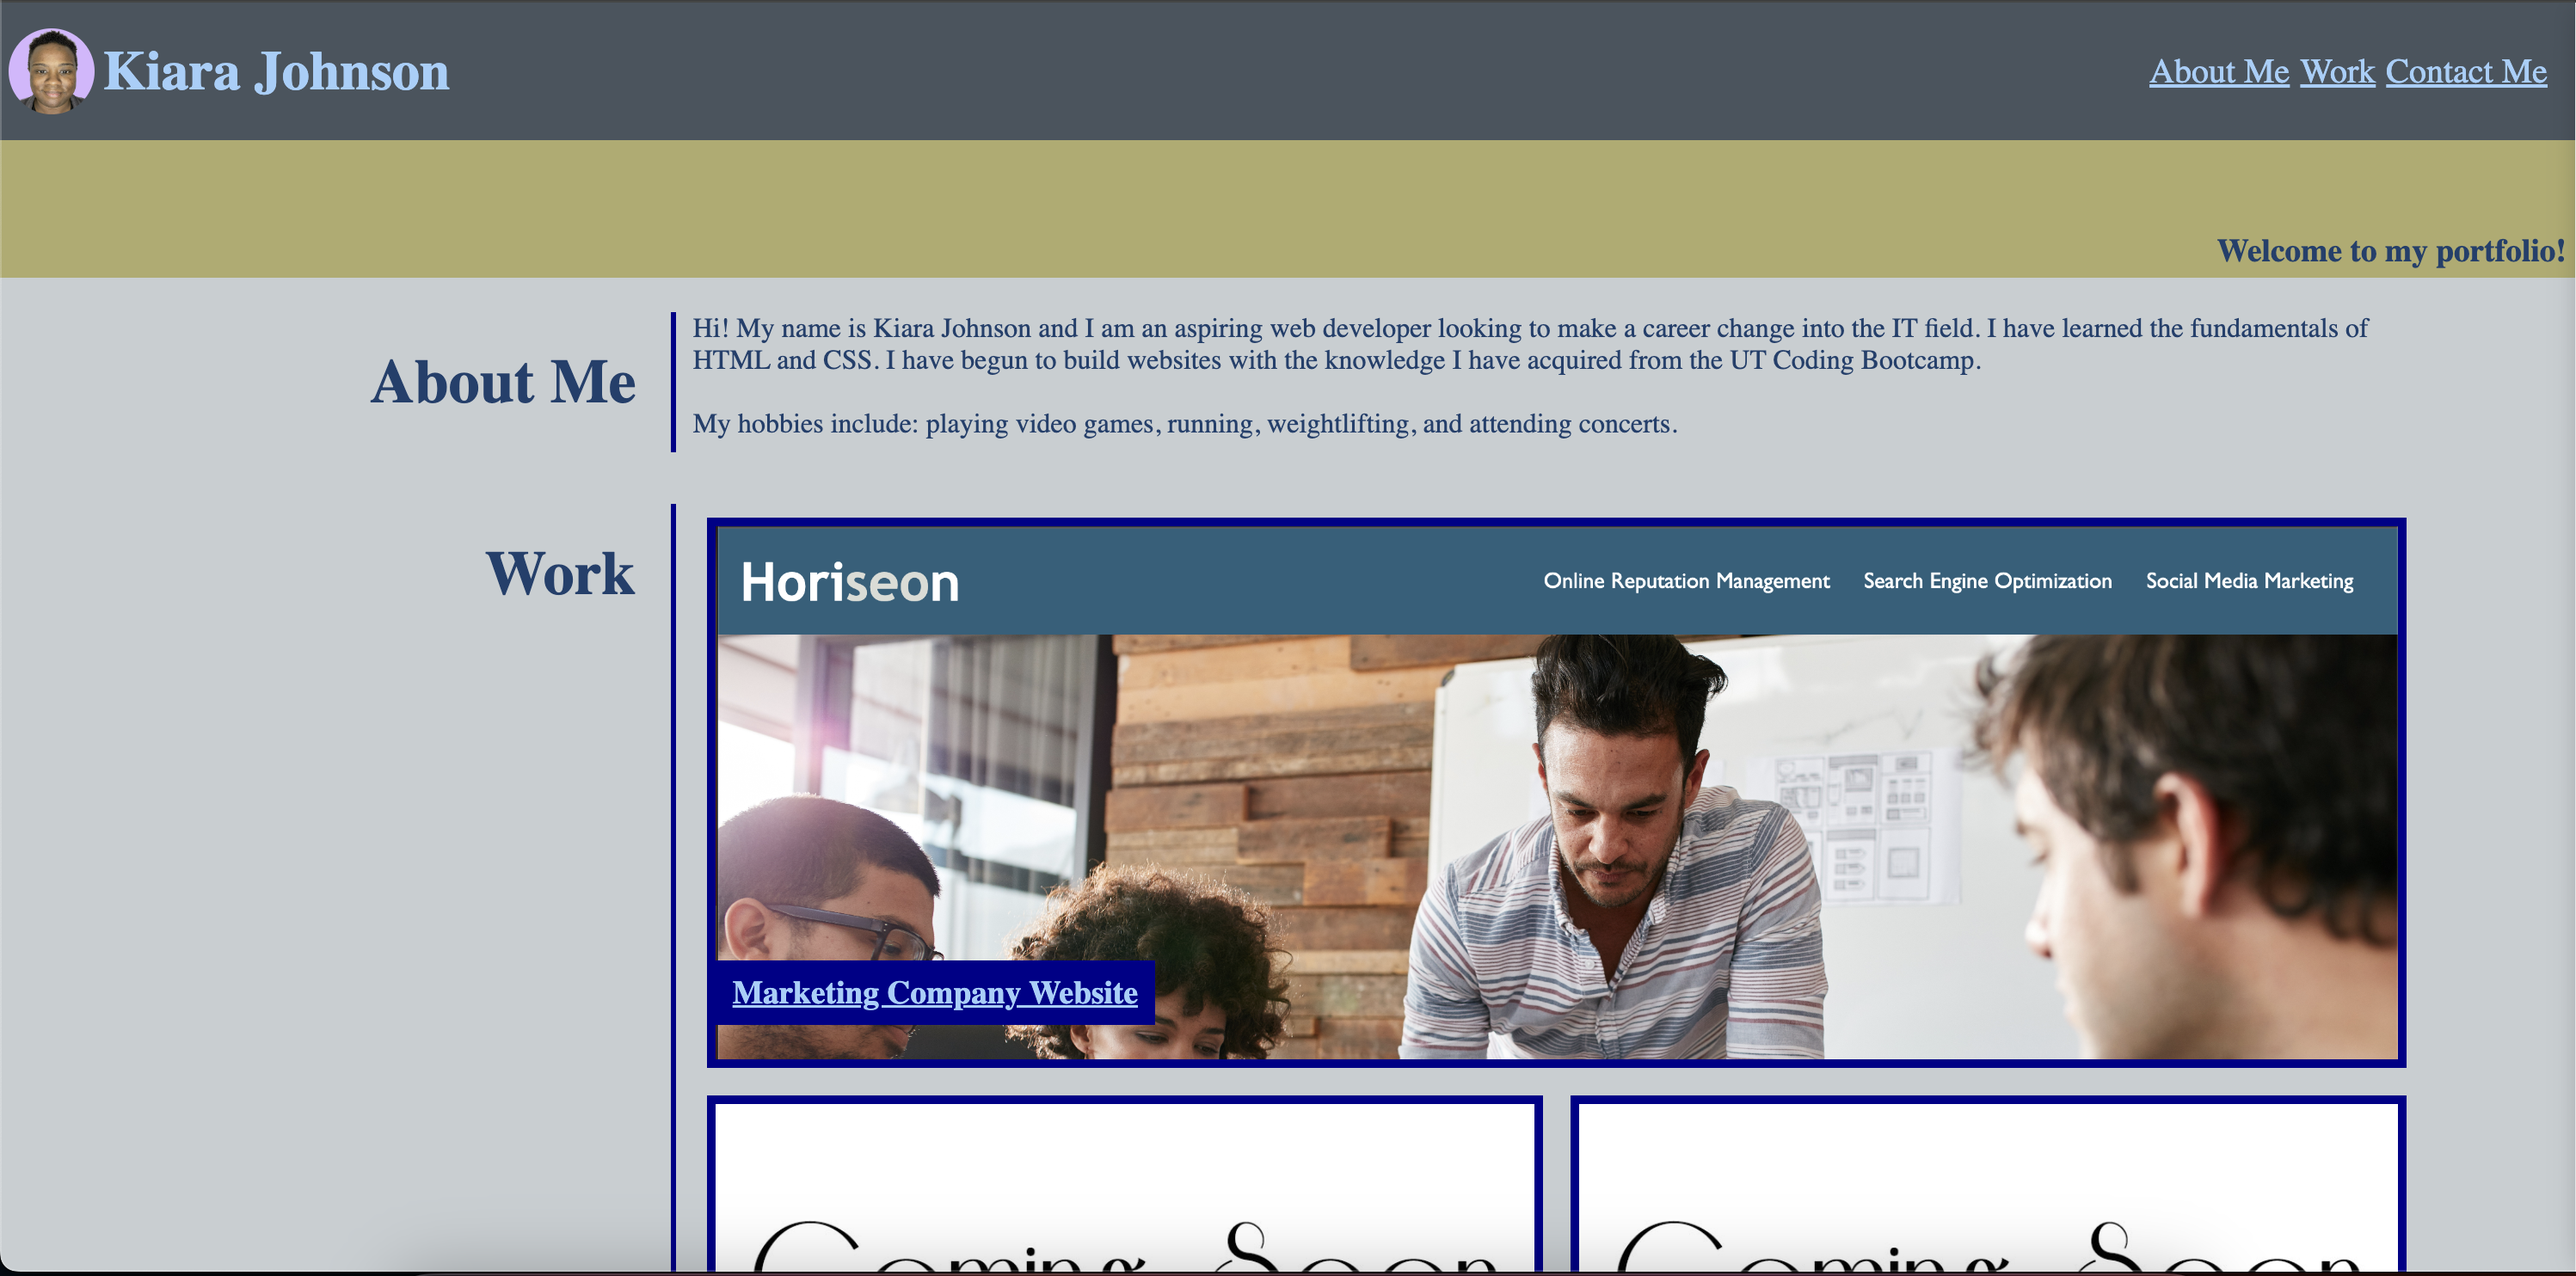
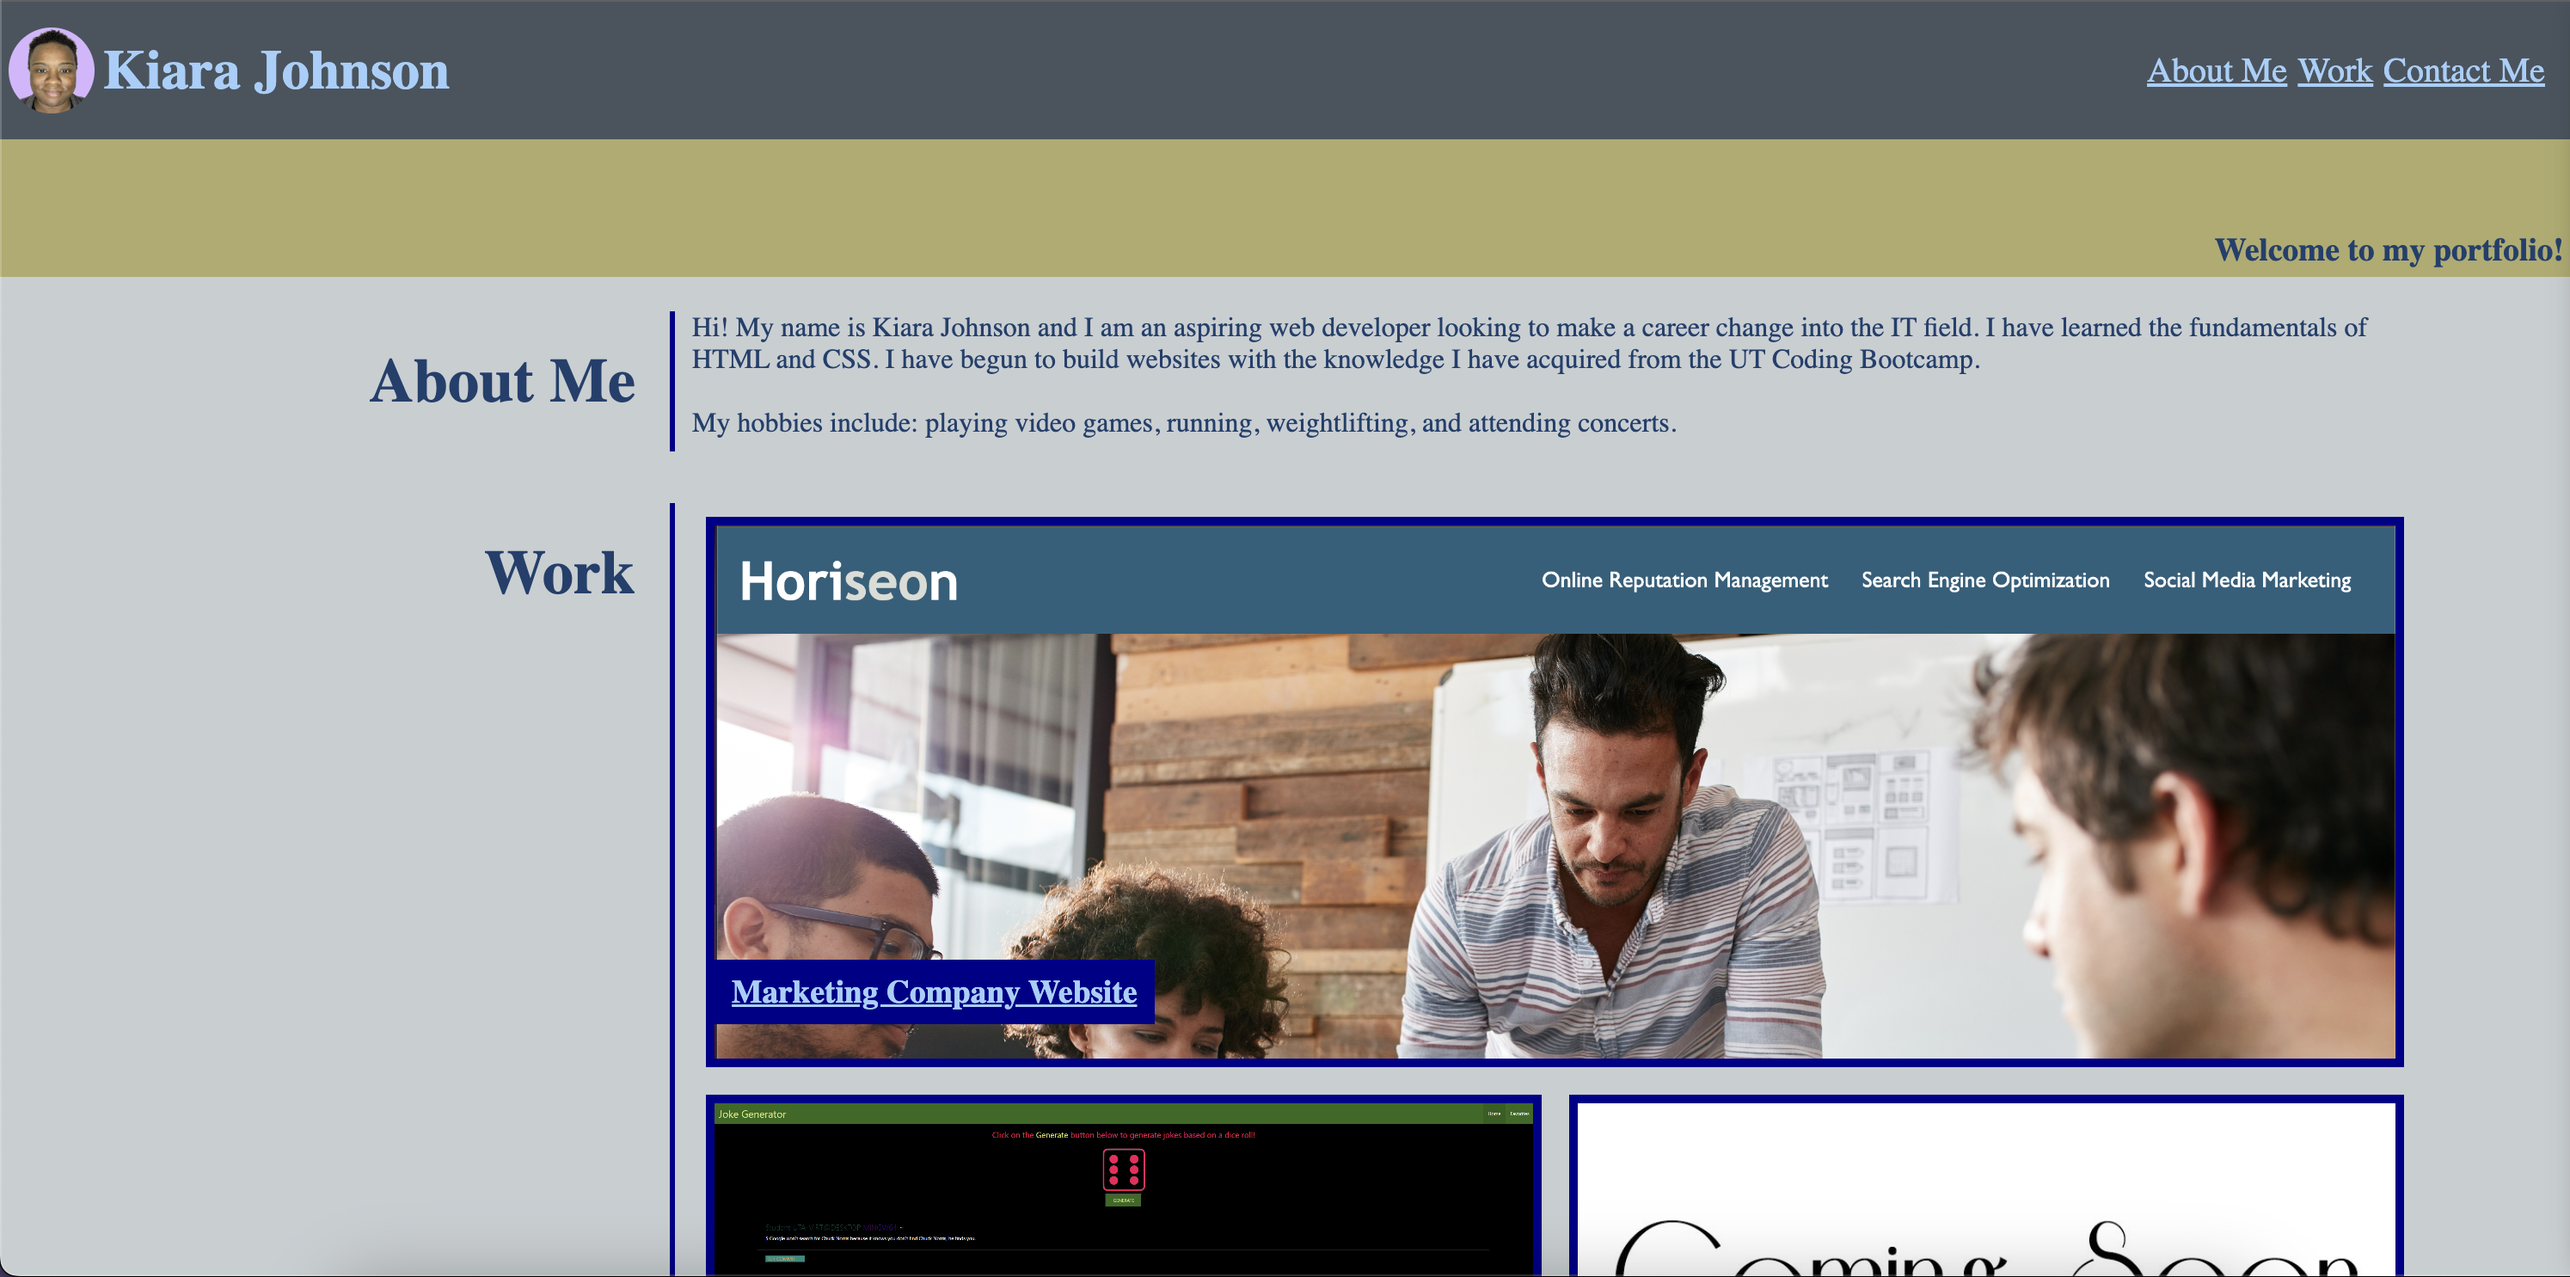
changed portfolio link and screenshots

diff --git a/README.md b/README.md
@@ -1,6 +1,6 @@
 # Kiara Johnson's Portfolio
 
-https://kiararj.github.io/portfolio/
+https://kiararj.github.io/kiaras-portfolio/
 
 ![Alt text](/assets/screenshot-one.png "Screenshot of website")
 
